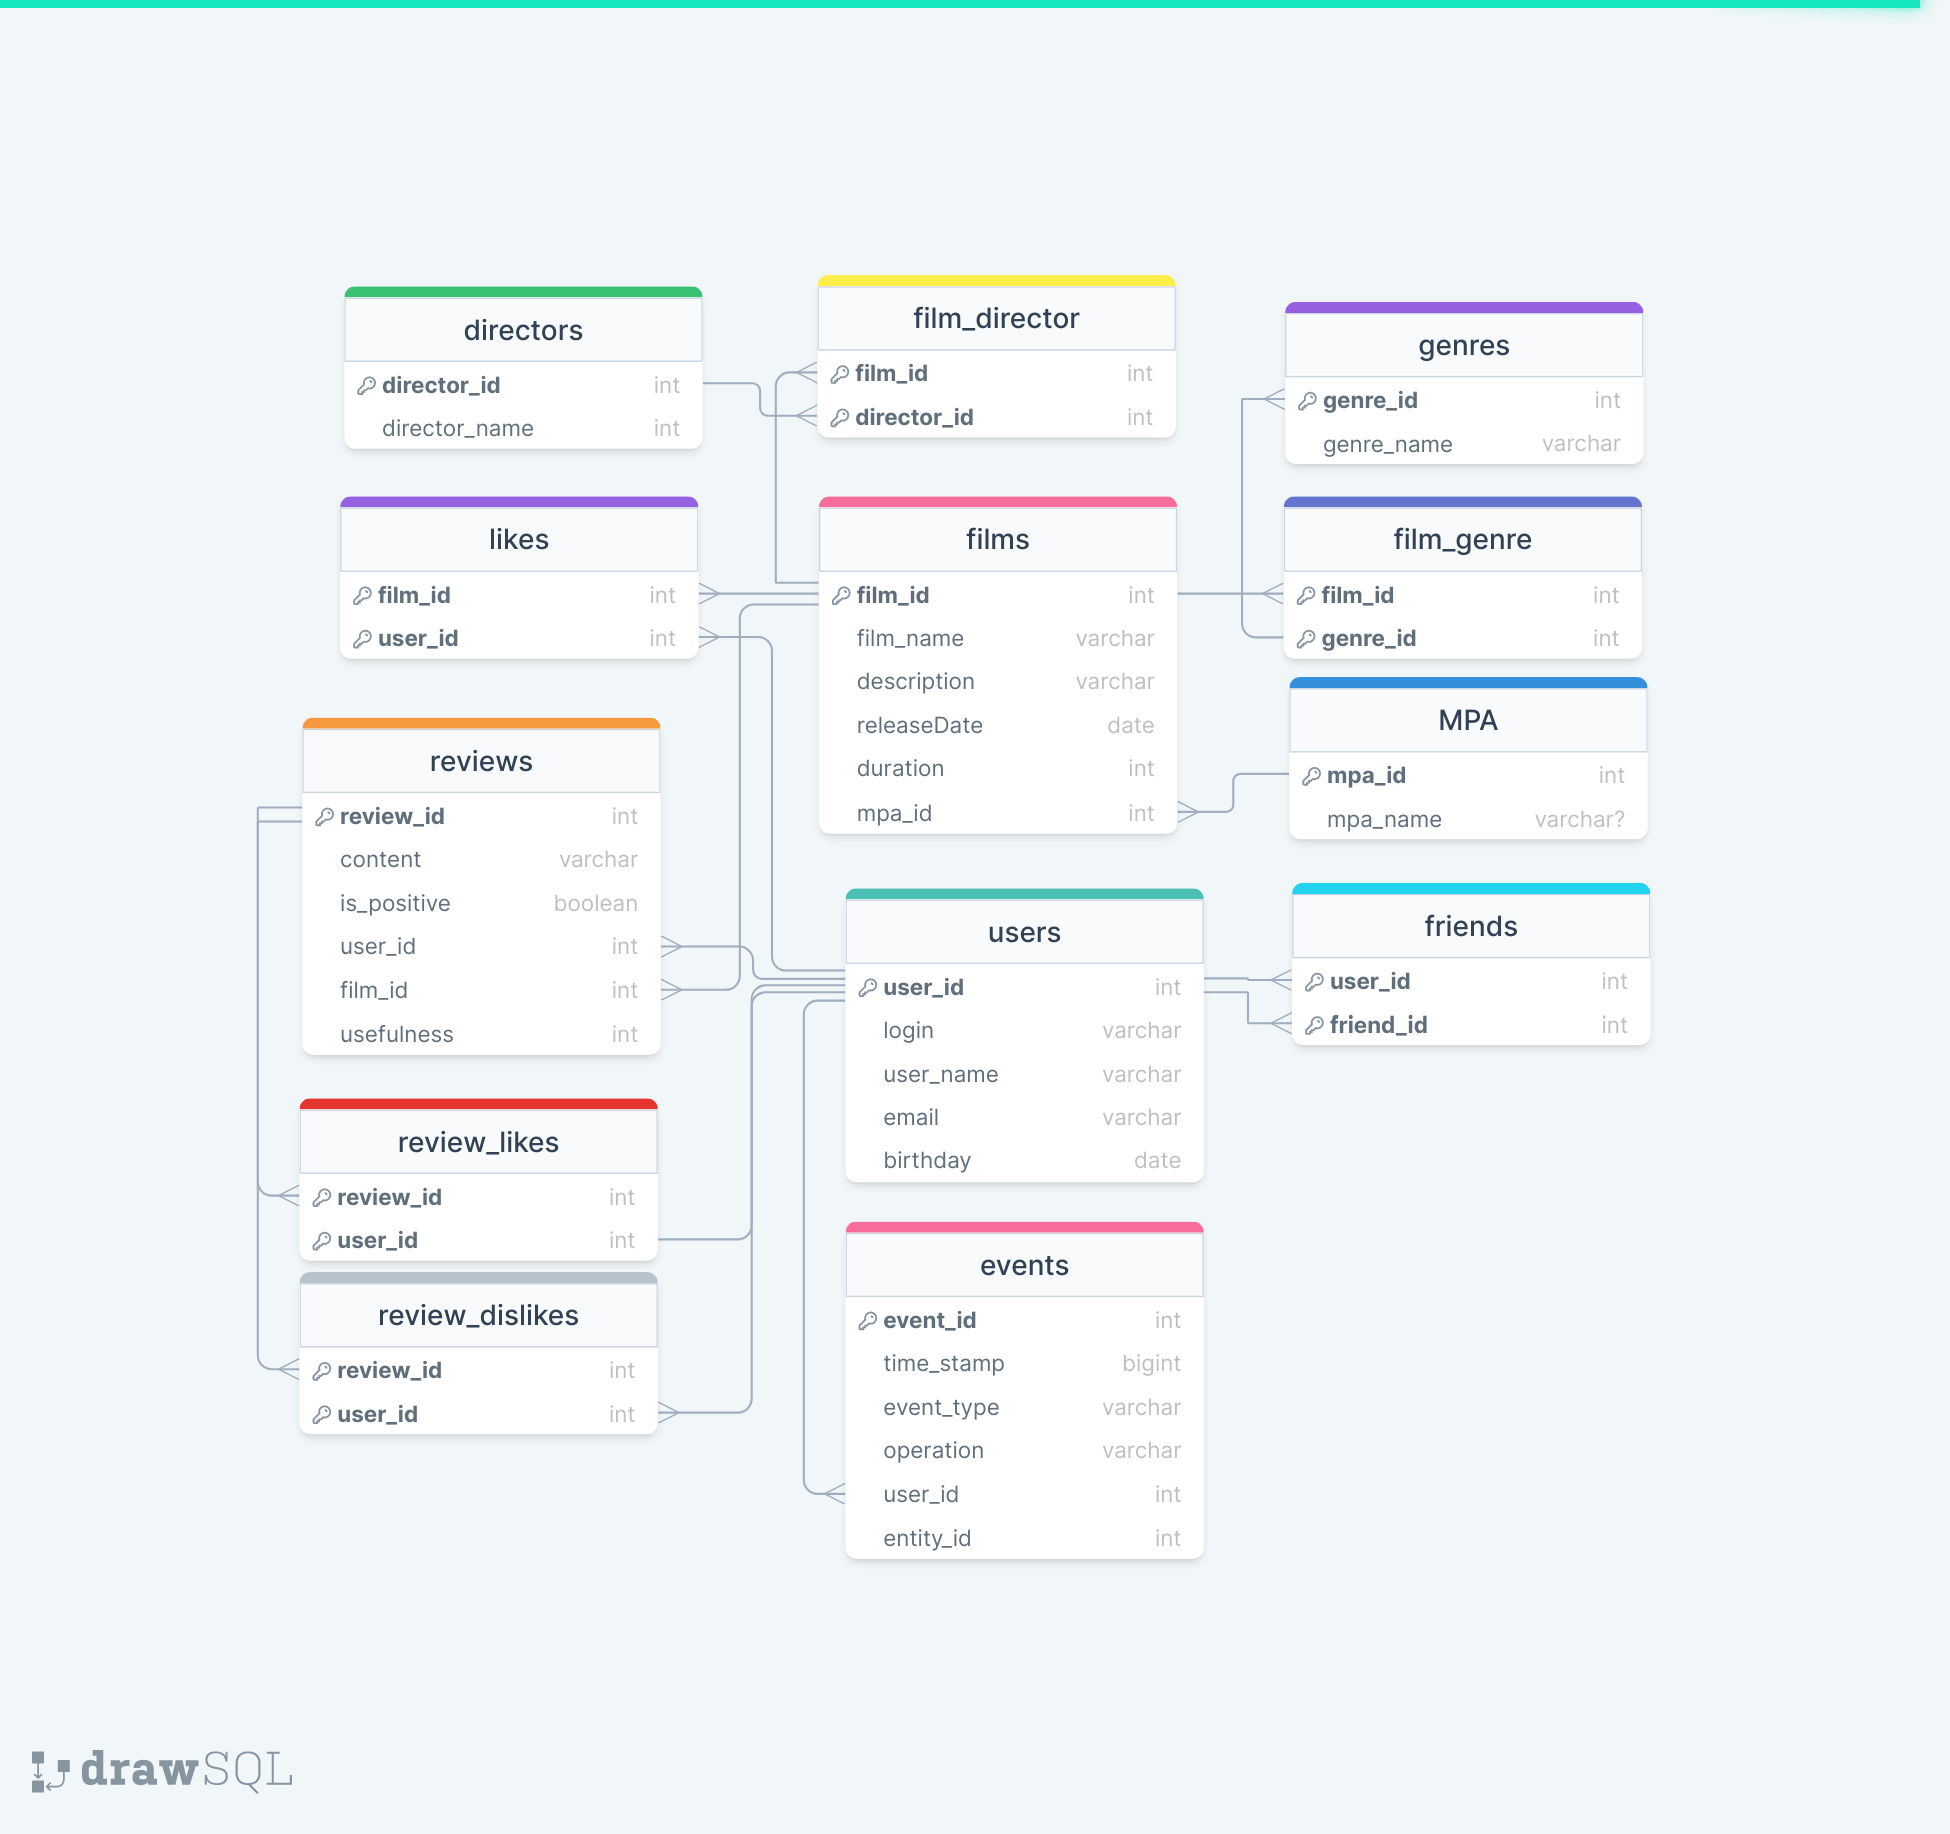
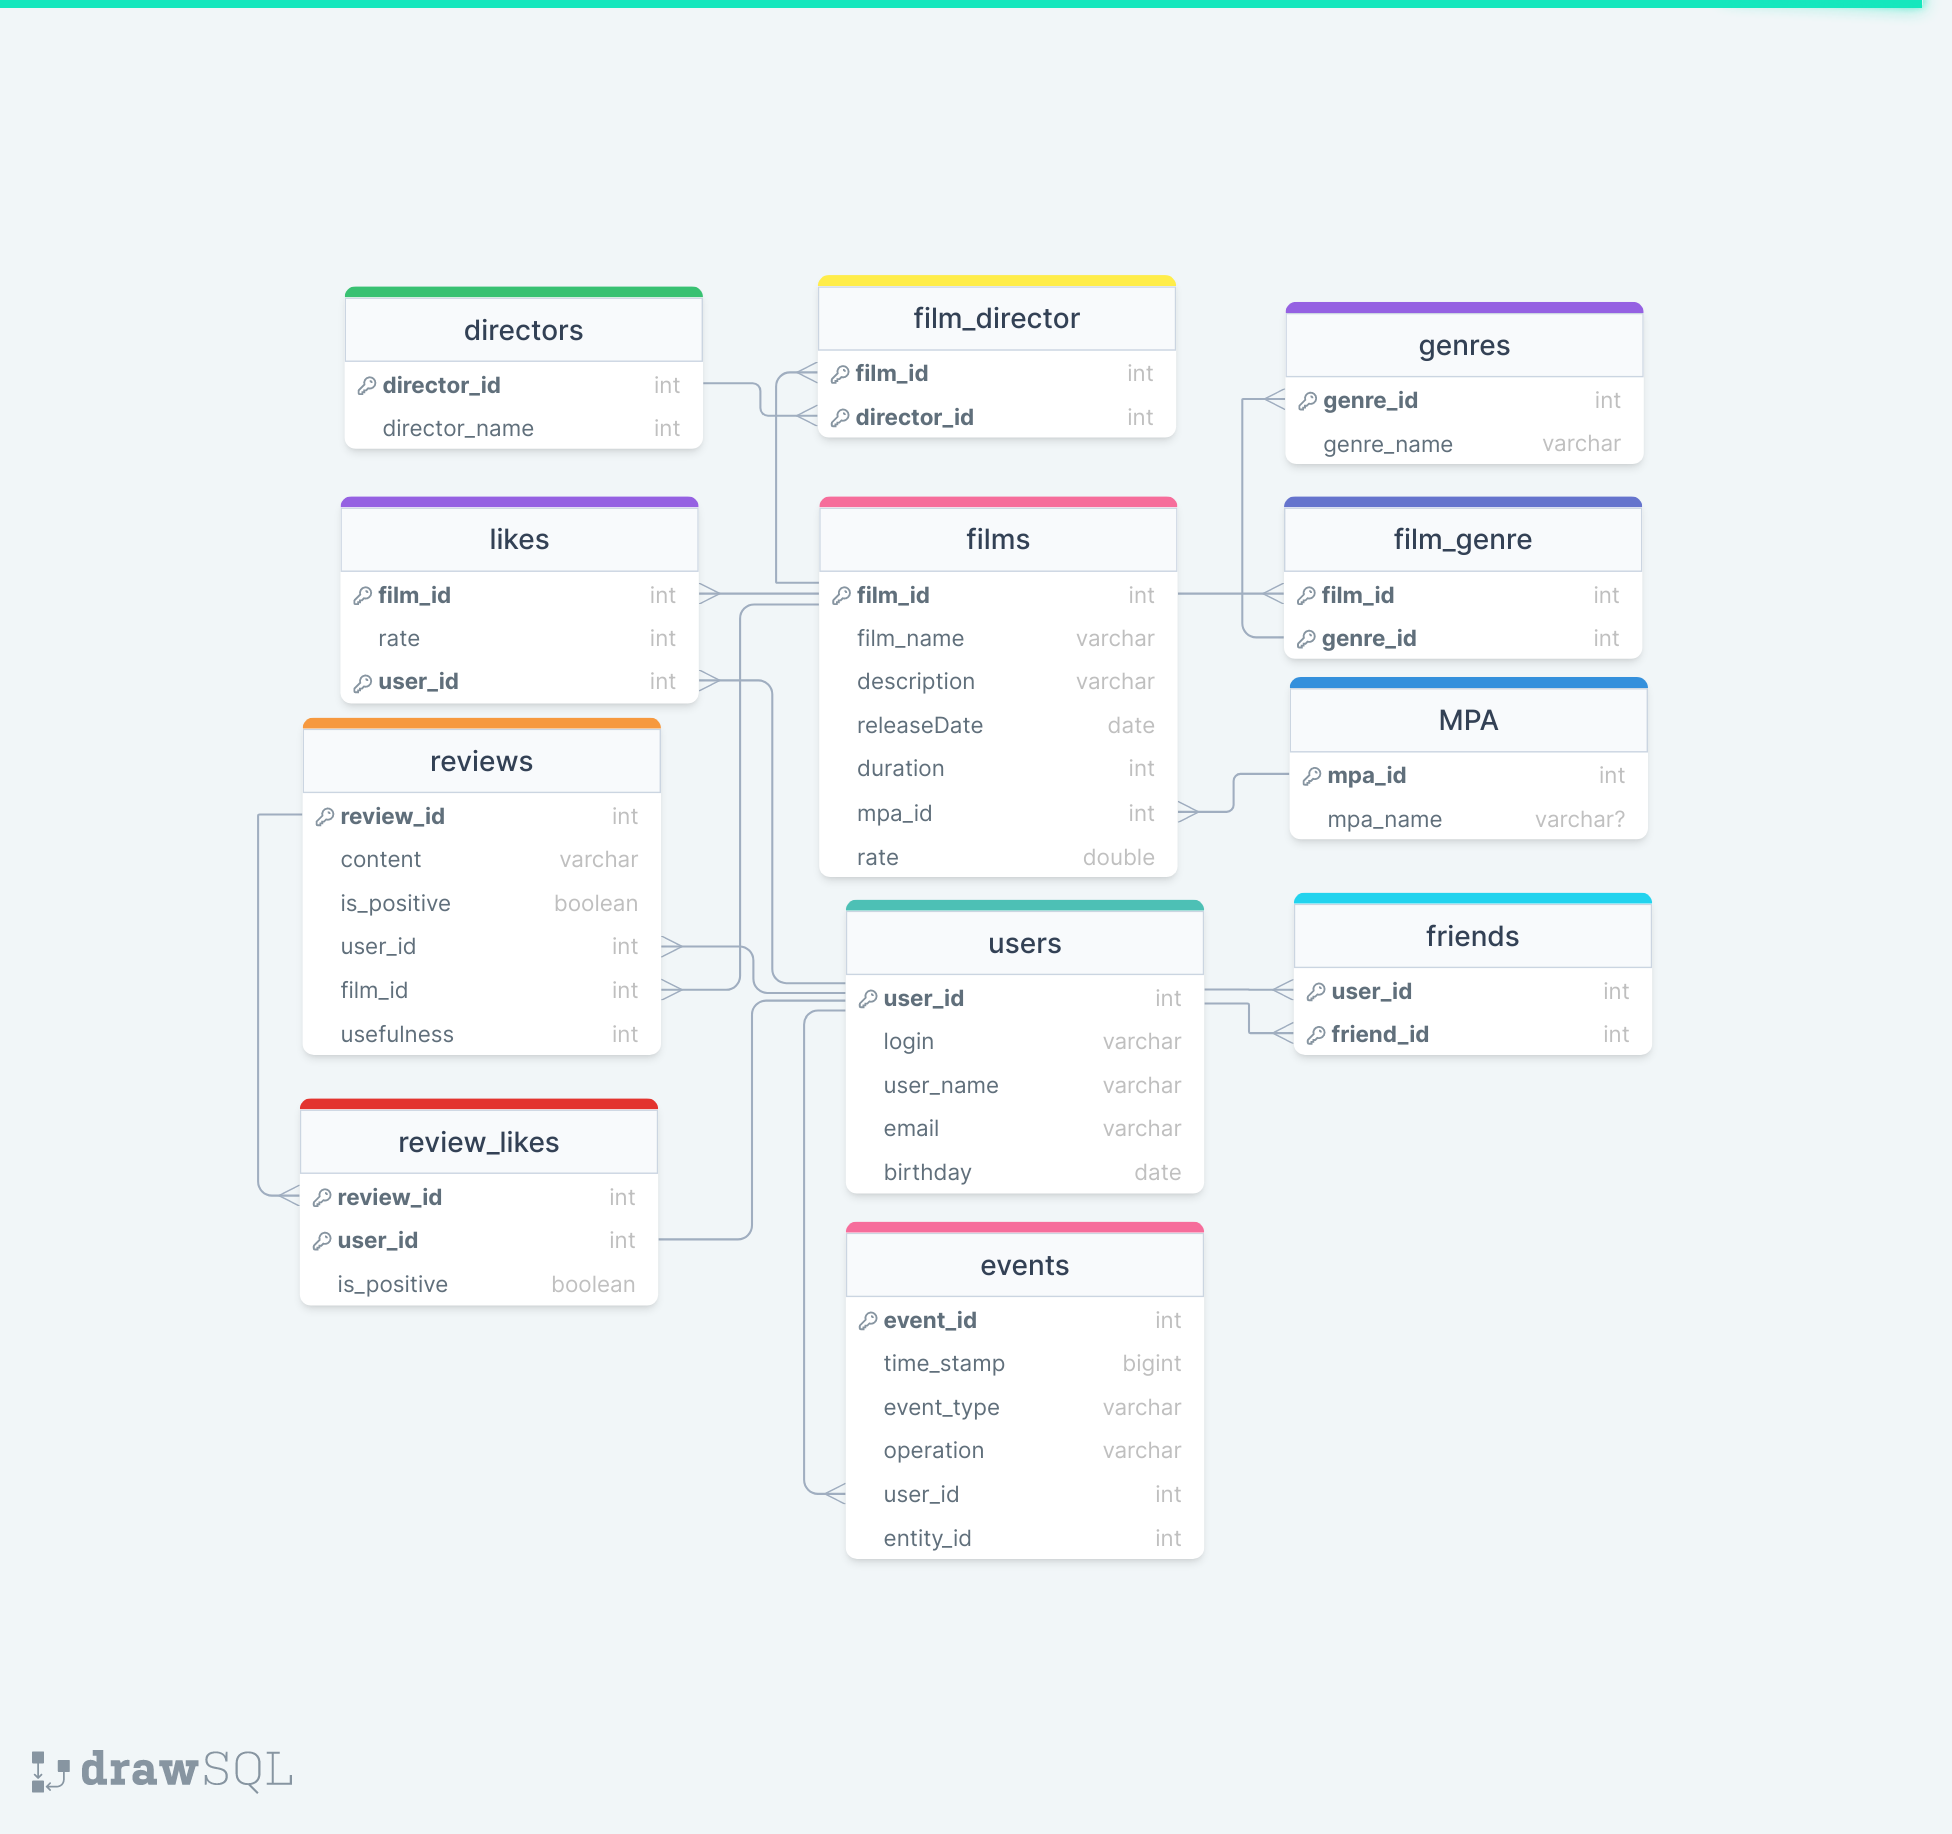
add-reviews: fix: теперь оценки ревью хранятся в одной таблице

diff --git a/src/main/java/ru/yandex/practicum/filmorate/service/ReviewService.java b/src/main/java/ru/yandex/practicum/filmorate/service/ReviewService.java
@@ -9,7 +9,6 @@ import ru.yandex.practicum.filmorate.model.OperationType;
 import ru.yandex.practicum.filmorate.model.Review;
 import ru.yandex.practicum.filmorate.storage.EventStorage;
 import ru.yandex.practicum.filmorate.storage.FilmStorage;
-import ru.yandex.practicum.filmorate.storage.ReviewDislikesStorage;
 import ru.yandex.practicum.filmorate.storage.ReviewLikesStorage;
 import ru.yandex.practicum.filmorate.storage.ReviewStorage;
 import ru.yandex.practicum.filmorate.storage.UserStorage;
@@ -22,7 +21,6 @@ import java.util.stream.Collectors;
 public class ReviewService {
     private final ReviewStorage reviewStorage;
     private final ReviewLikesStorage reviewLikesStorage;
-    private final ReviewDislikesStorage reviewDislikesStorage;
     private final FilmStorage filmStorage;
     private final UserStorage userStorage;
     private final EventStorage eventStorage;
@@ -107,26 +105,32 @@ public class ReviewService {
                 .format("reviewId=%s не найден.", id));
 
         List<Long> userLikes = reviewLikesStorage.getUserLikes(userId);
-        List<Long> userDislikes = reviewDislikesStorage.getUserDislikes(userId);
+        List<Long> userDislikes = reviewLikesStorage.getUserDislikes(userId);
 
         if (toAdd)          // добавить оценку
             if (isLike) {   // лайк
                 if (userLikes.contains(id)) throw new ValidationDataException(String
                         .format("userId=%s уже поставил лайк reviewId=%s.", userId, id));
+
+                // изменение оценки с дизлайка на лайк
                 if (userDislikes.contains(id)) {
-                    reviewDislikesStorage.remove(id, userId);
+                    reviewLikesStorage.remove(id, userId);
                     review.setUseful(review.getUseful() + 1);
                 }
-                reviewLikesStorage.add(id, userId);
+
+                reviewLikesStorage.add(id, userId, isLike);
                 review.setUseful(review.getUseful() + 1);
             } else {        // дизлайк
                 if (userDislikes.contains(id)) throw new ValidationDataException(String
                         .format("userId=%s уже поставил дизлайк reviewId=%s.", userId, id));
+
+                // изменение оценки с лайка на дизлайк
                 if (userLikes.contains(id)) {
                     reviewLikesStorage.remove(id, userId);
                     review.setUseful(review.getUseful() - 1);
                 }
-                reviewDislikesStorage.add(id, userId);
+
+                reviewLikesStorage.add(id, userId, isLike);
                 review.setUseful(review.getUseful() - 1);
             }
         else                // удалить оценку
@@ -135,6 +139,7 @@ public class ReviewService {
                         .format("userId=%s поставил дизлайк reviewId=%s, а не лайк.", userId, id));
                 if (!userLikes.contains(id)) throw new ValidationDataException(String
                         .format("userId=%s не поставил лайк reviewId=%s.", userId, id));
+
                 reviewLikesStorage.remove(id, userId);
                 review.setUseful(review.getUseful() - 1);
             } else {        // дизлайк
@@ -142,7 +147,8 @@ public class ReviewService {
                         .format("userId=%s поставил лайк reviewId=%s, а не дизлайк.", userId, id));
                 if (!userDislikes.contains(id)) throw new ValidationDataException(String
                         .format("userId=%s не поставил дизлайк reviewId=%s.", userId, id));
-                reviewDislikesStorage.remove(id, userId);
+
+                reviewLikesStorage.remove(id, userId);
                 review.setUseful(review.getUseful() + 1);
             }
         return reviewStorage.update(review, 1);
@@ -152,7 +158,7 @@ public class ReviewService {
         reviewLikesStorage.getUserLikes(userId).stream()
                 .map(reviewStorage::get)
                 .forEach(review -> review.setUseful(review.getUseful() - 1));
-        reviewDislikesStorage.getUserDislikes(userId).stream()
+        reviewLikesStorage.getUserDislikes(userId).stream()
                 .map(reviewStorage::get)
                 .forEach(review -> review.setUseful(review.getUseful() + 1));
         // Удаление самих записей из базы выполнится каскадно при удалении пользователя.

diff --git a/src/main/java/ru/yandex/practicum/filmorate/storage/ReviewLikesDbStorage.java b/src/main/java/ru/yandex/practicum/filmorate/storage/ReviewLikesDbStorage.java
@@ -15,22 +15,34 @@ public class ReviewLikesDbStorage implements ReviewLikesStorage {
     private final JdbcTemplate jdbcTemplate;
 
     @Override
-    public void add(long reviewId, long userId) {
-        String sql = "insert into REVIEW_LIKES (REVIEW_ID, USER_ID) " +
-                "values (?, ?)";
-        if (jdbcTemplate.update(sql, reviewId, userId) == 0) throw new StorageException(
+    public void add(long reviewId, long userId, boolean isPositive) {
+        String sql = "insert into REVIEW_LIKES (REVIEW_ID, USER_ID, IS_POSITIVE) " +
+                "values (?, ?, ?)";
+        if (jdbcTemplate.update(sql, reviewId, userId, isPositive) == 0) throw new StorageException(
                 String.format("Ошибка при добавлении в таблицу REVIEW_LIKES, reviewID=%s, userID=%s.", reviewId, userId));
     }
 
     @Override
     public List<Long> getReviewLikes(long reviewId) {
-        String sql = "select USER_ID from REVIEW_LIKES where REVIEW_ID = ?";
+        String sql = "select USER_ID from REVIEW_LIKES where REVIEW_ID = ? and IS_POSITIVE = true";
+        return jdbcTemplate.query(sql, this::rowToUserId, reviewId);
+    }
+
+    @Override
+    public List<Long> getReviewDislikes(long reviewId) {
+        String sql = "select USER_ID from REVIEW_LIKES where REVIEW_ID = ? and IS_POSITIVE = false";
         return jdbcTemplate.query(sql, this::rowToUserId, reviewId);
     }
 
     @Override
     public List<Long> getUserLikes(long userId) {
-        String sql = "select REVIEW_ID from REVIEW_LIKES where USER_ID = ?";
+        String sql = "select REVIEW_ID from REVIEW_LIKES where USER_ID = ? and IS_POSITIVE = true";
+        return jdbcTemplate.query(sql, this::rowToReviewId, userId);
+    }
+
+    @Override
+    public List<Long> getUserDislikes(long userId) {
+        String sql = "select REVIEW_ID from REVIEW_LIKES where USER_ID = ? and IS_POSITIVE = false";
         return jdbcTemplate.query(sql, this::rowToReviewId, userId);
     }
 

diff --git a/src/main/java/ru/yandex/practicum/filmorate/storage/ReviewLikesStorage.java b/src/main/java/ru/yandex/practicum/filmorate/storage/ReviewLikesStorage.java
@@ -4,11 +4,15 @@ import java.util.List;
 
 public interface ReviewLikesStorage {
 
-    void add(long reviewId, long userId);
+    void add(long reviewId, long userId, boolean isPositive);
 
     List<Long> getReviewLikes(long reviewId);
 
+    List<Long> getReviewDislikes(long reviewId);
+
     List<Long> getUserLikes(long userId);
+
+    List<Long> getUserDislikes(long userId);
 
     void remove(long reviewId, long userId);
 }
